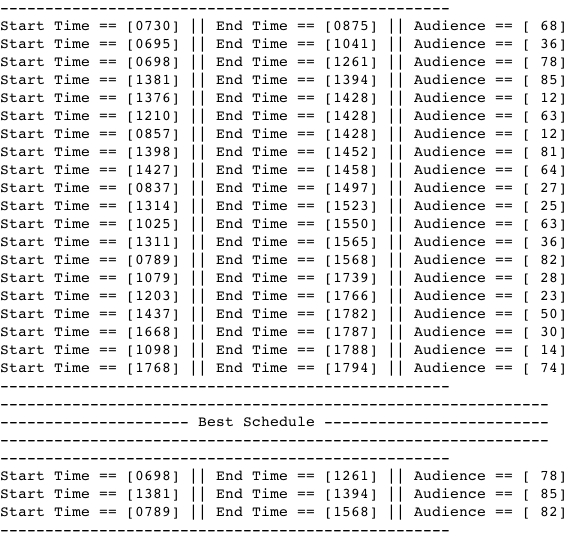
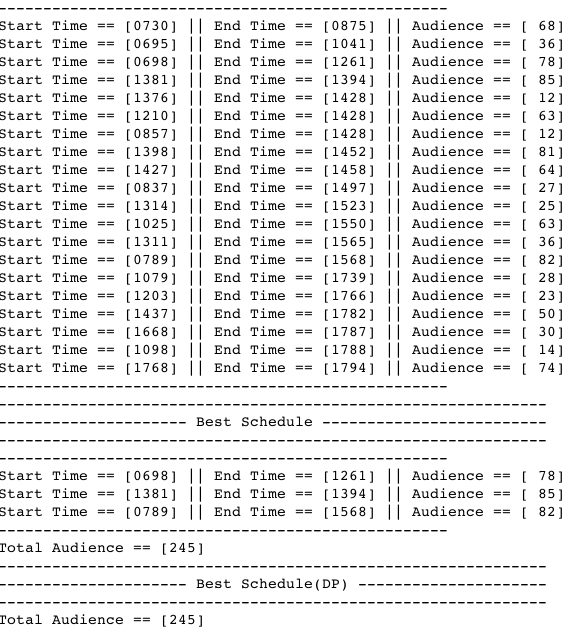
adding recursive solution

Changed region(s): [[0.0, 0.0, 0.9859, 1.0]]

diff --git a/Chapter_8_Advanced_Counting_Techniques/8.1_Applications_of_Recurrence_Relations/Examples/Example_6/repo/MeetingScheduler.cpp b/Chapter_8_Advanced_Counting_Techniques/8.1_Applications_of_Recurrence_Relations/Examples/Example_6/repo/MeetingScheduler.cpp
@@ -59,6 +59,23 @@ std::vector<Meeting> max_audience_schedule(const std::vector<Meeting>& meets, in
     return schedule;
 }
 
+void max_audience_dp(const std::vector<Meeting>& meets,
+                     const Meeting& m,
+                     std::size_t index, int& max) {
+    if (index >= meets.size()) {
+        return;
+    } else {
+        if (m.end_time() >= meets[index].start_time() &&
+            m.end_time() <= meets[index].end_time()) {
+            const Meeting t = max_audience(m, meets[index]);
+            max_audience_dp(meets, t, ++index, max);
+        } else {
+            max += m.audience();
+            max_audience_dp(meets, meets[index], index + 1, max);
+        }
+    }
+}
+
 void test_meeting_scheduler() {
     std::vector<Meeting> meets = meetings();
     print(meets);
@@ -71,11 +88,17 @@ void test_meeting_scheduler() {
     int max = 0;
     const std::vector<Meeting> best_schedule = max_audience_schedule(meets, max);
 
+    int max_dp = 0;
+    max_audience_dp(meets, meets[0], 1, max_dp);
     printf("-------------------------------------------------------------\n");
     printf("--------------------- Best Schedule -------------------------\n");
     printf("-------------------------------------------------------------\n");
     print(best_schedule);
     printf("Total Audience == [%d]\n", max);
+    printf("-------------------------------------------------------------\n");
+    printf("--------------------- Best Schedule(DP) ---------------------\n");
+    printf("-------------------------------------------------------------\n");
+    printf("Total Audience == [%d]\n", max_dp);
 }
 
 int main() {
